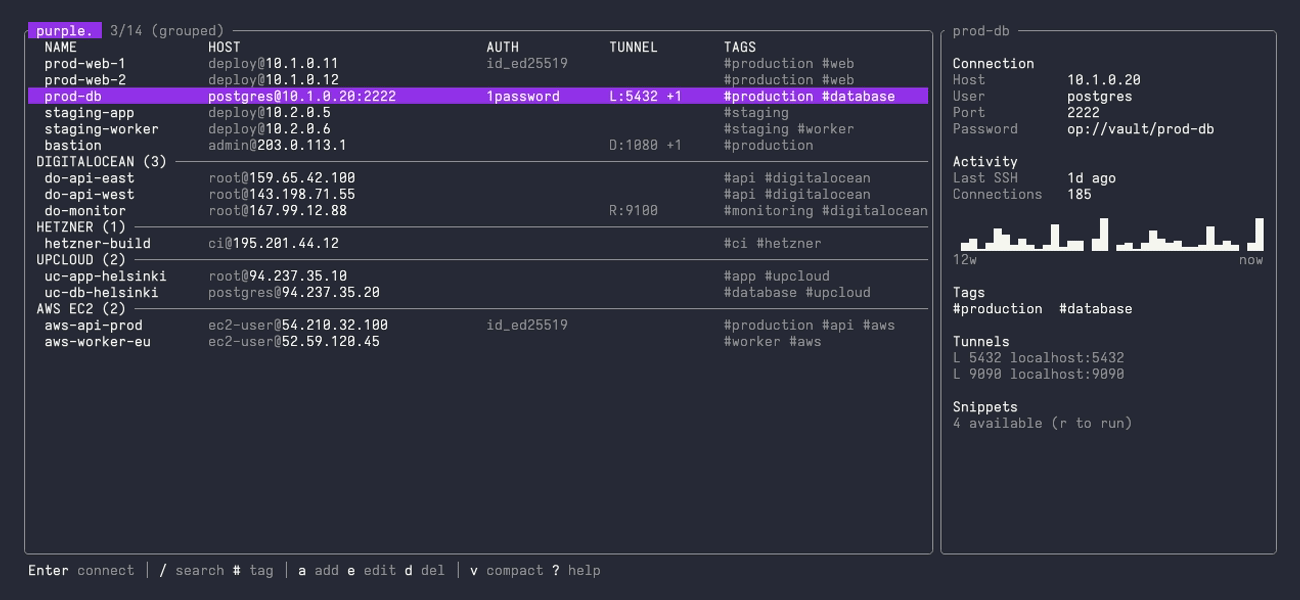
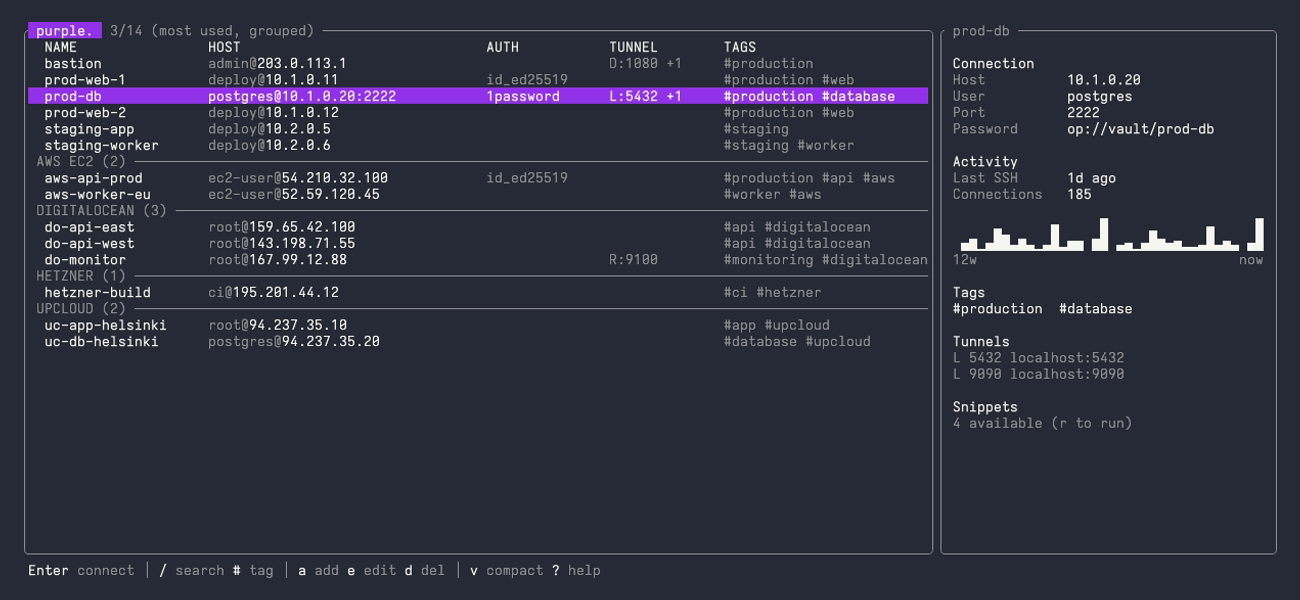
Dim group headers in host list for better visual hierarchy (v1.26.1)

diff --git a/site/worker.ts b/site/worker.ts
@@ -159,7 +159,7 @@ const LANDING_PAGE = `<!DOCTYPE html>
   "url": "https://getpurple.sh",
   "downloadUrl": "https://getpurple.sh",
   "installUrl": "https://github.com/erickochen/purple/releases",
-  "softwareVersion": "1.26.0",
+  "softwareVersion": "1.26.1",
   "programmingLanguage": "Rust",
   "license": "https://opensource.org/licenses/MIT",
   "codeRepository": "https://github.com/erickochen/purple",

diff --git a/site/page.html b/site/page.html
@@ -32,7 +32,7 @@
   "url": "https://getpurple.sh",
   "downloadUrl": "https://getpurple.sh",
   "installUrl": "https://github.com/erickochen/purple/releases",
-  "softwareVersion": "1.26.0",
+  "softwareVersion": "1.26.1",
   "programmingLanguage": "Rust",
   "license": "https://opensource.org/licenses/MIT",
   "codeRepository": "https://github.com/erickochen/purple",

diff --git a/src/ui/host_list.rs b/src/ui/host_list.rs
@@ -387,7 +387,7 @@ fn render_display_list(frame: &mut Frame, app: &mut App, area: ratatui::layout::
                 let label = format!("{} ({}) ", upper, count);
                 let fill = cols.content.saturating_sub(label.width());
                 let line = Line::from(vec![
-                    Span::styled(label, theme::section_header()),
+                    Span::styled(label, theme::muted()),
                     Span::styled("─".repeat(fill), theme::muted()),
                 ]);
                 items.push(ListItem::new(line));
